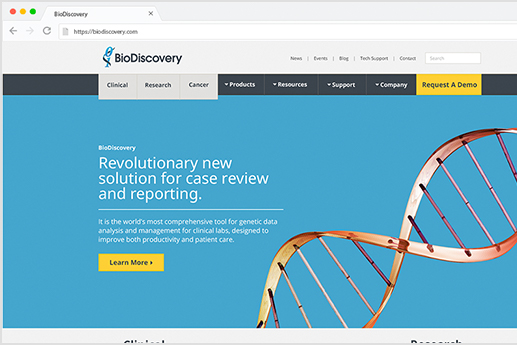
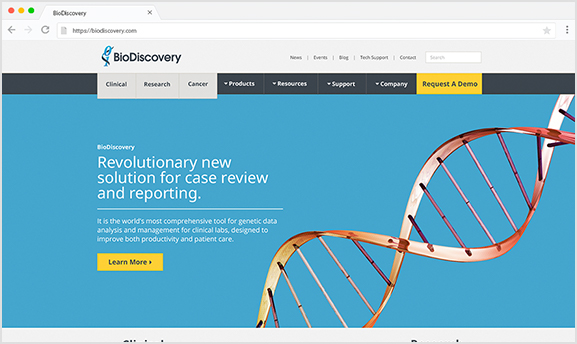
Carousel initial dev

diff --git a/src/css/style.css b/src/css/style.css
@@ -336,6 +336,21 @@ ul {
     ul {
       font-size: 1em; } }
 
+.aspot-carousel {
+  position: absolute;
+  top: 35%;
+  right: -10%;
+  width: 60%;
+  overflow: hidden; }
+  .aspot-carousel--container {
+    position: relative; }
+  .aspot-carousel--images {
+    position: absolute;
+    top: 5%;
+    left: 12%; }
+  .aspot-carousel img {
+    width: 100%; }
+
 /* ===================================================================
 	04. Home
 =================================================================== */

diff --git a/src/scss/components/_carousel.scss b/src/scss/components/_carousel.scss
@@ -1,0 +1,21 @@
+.aspot-carousel {
+    position: absolute;
+    top: 35%;
+    right: -10%;
+    width: 60%;
+    overflow: hidden;
+
+    &--container {
+        position: relative;
+    }
+
+    &--images {
+        position: absolute;
+        top: 5%;
+        left: 12%;
+    }
+    
+    img {
+        width: 100%;
+    }
+}

diff --git a/src/scss/style.scss b/src/scss/style.scss
@@ -18,7 +18,8 @@ Text Domain: barbaconbigote
 // Component styles
 @import 'components/nav',
 		'components/footer',
-		'components/typography';
+		'components/typography',
+		'components/carousel';
 
 // Page specific styles
 @import	'layout/index',

diff --git a/src/front-page.php b/src/front-page.php
@@ -18,22 +18,59 @@
 
 				<!-- Featured Work Carousel -->
 				<div class="aspot-carousel">
-					<img src="<?php echo get_template_directory_uri(); ?>/assets/home/macbook.png" alt="" class="macbook">
-					<div id="featuredWork" class="carousel slide" data-ride="carousel" data-interval="6000">
-						<div class="carousel-inner">
-
-							<!-- Create Custom Post Type for IMGs -->
-							<div class="carousel-item <?php echo $class; ?>">
-								<div class="work-img">
-									<img class="d-block w-100" src="<?php the_post_thumbnail_url(); ?>" alt="">
-									<div class="work-hover">
-										<a class="btn btn-primary" href="<?php echo get_post_permalink(); ?>">View Work</a>
+					<div class="aspot-carousel--container">
+							<img src="<?php echo get_template_directory_uri(); ?>/assets/home/macbook.png" alt="" class="aspot-carousel--macbook">
+							<div id="featuredWork" class="aspot-carousel--images carousel slide" data-ride="carousel" data-interval="6000">
+								<?php 
+									$args = array(
+										'post_type'		=>		'other_works',
+										'tax_query'		=>		array(
+											array(
+												'taxonomy'	=>	'project_type',
+												'field'		=>	'slug',
+												'terms'		=>	'ux-ui'
+											),
+										),
+										'posts_per_page'		=>		3
+									);
+	
+									$the_query = new WP_Query($args);
+									$posts = $the_query->posts;
+									$current = 0;
+									$class = '';
+								?>
+	
+								<?php if($the_query->have_posts()) : $number = 0; ?>
+	
+									<div class="carousel-inner">
+	
+										<?php while($the_query->have_posts()) : $the_query->the_post(); $current++; ?> 
+											<!-- Write wp_query loop to pull 3 case studies -->
+											<?php
+												if($current == 1) {
+													$class = 'active';
+												} else {
+													$class = '';
+												}
+											?>
+											<div class="carousel-item <?php echo $class; ?>">
+												<div class="aspot-carousel--img">
+													<img class="d-block w-100" src="<?php the_post_thumbnail_url(); ?>" alt="">
+													<div class="work-hover">
+														<a class="btn btn-primary" href="<?php echo get_post_permalink(); ?>">View Work</a>
+													</div>
+												</div>
+											</div>
+										<?php endwhile; ?>
+										
+										<?php wp_reset_postdata(); ?>
+	
 									</div>
-								</div>
+	
+								<?php else : ?>
+									<h6>Sorry, there seems to be an error.</h6>
+								<?php endif; ?>
 							</div>
-							<!-- /End -->
-							
-						</div>
 					</div>
 				</div>
 			</div>
